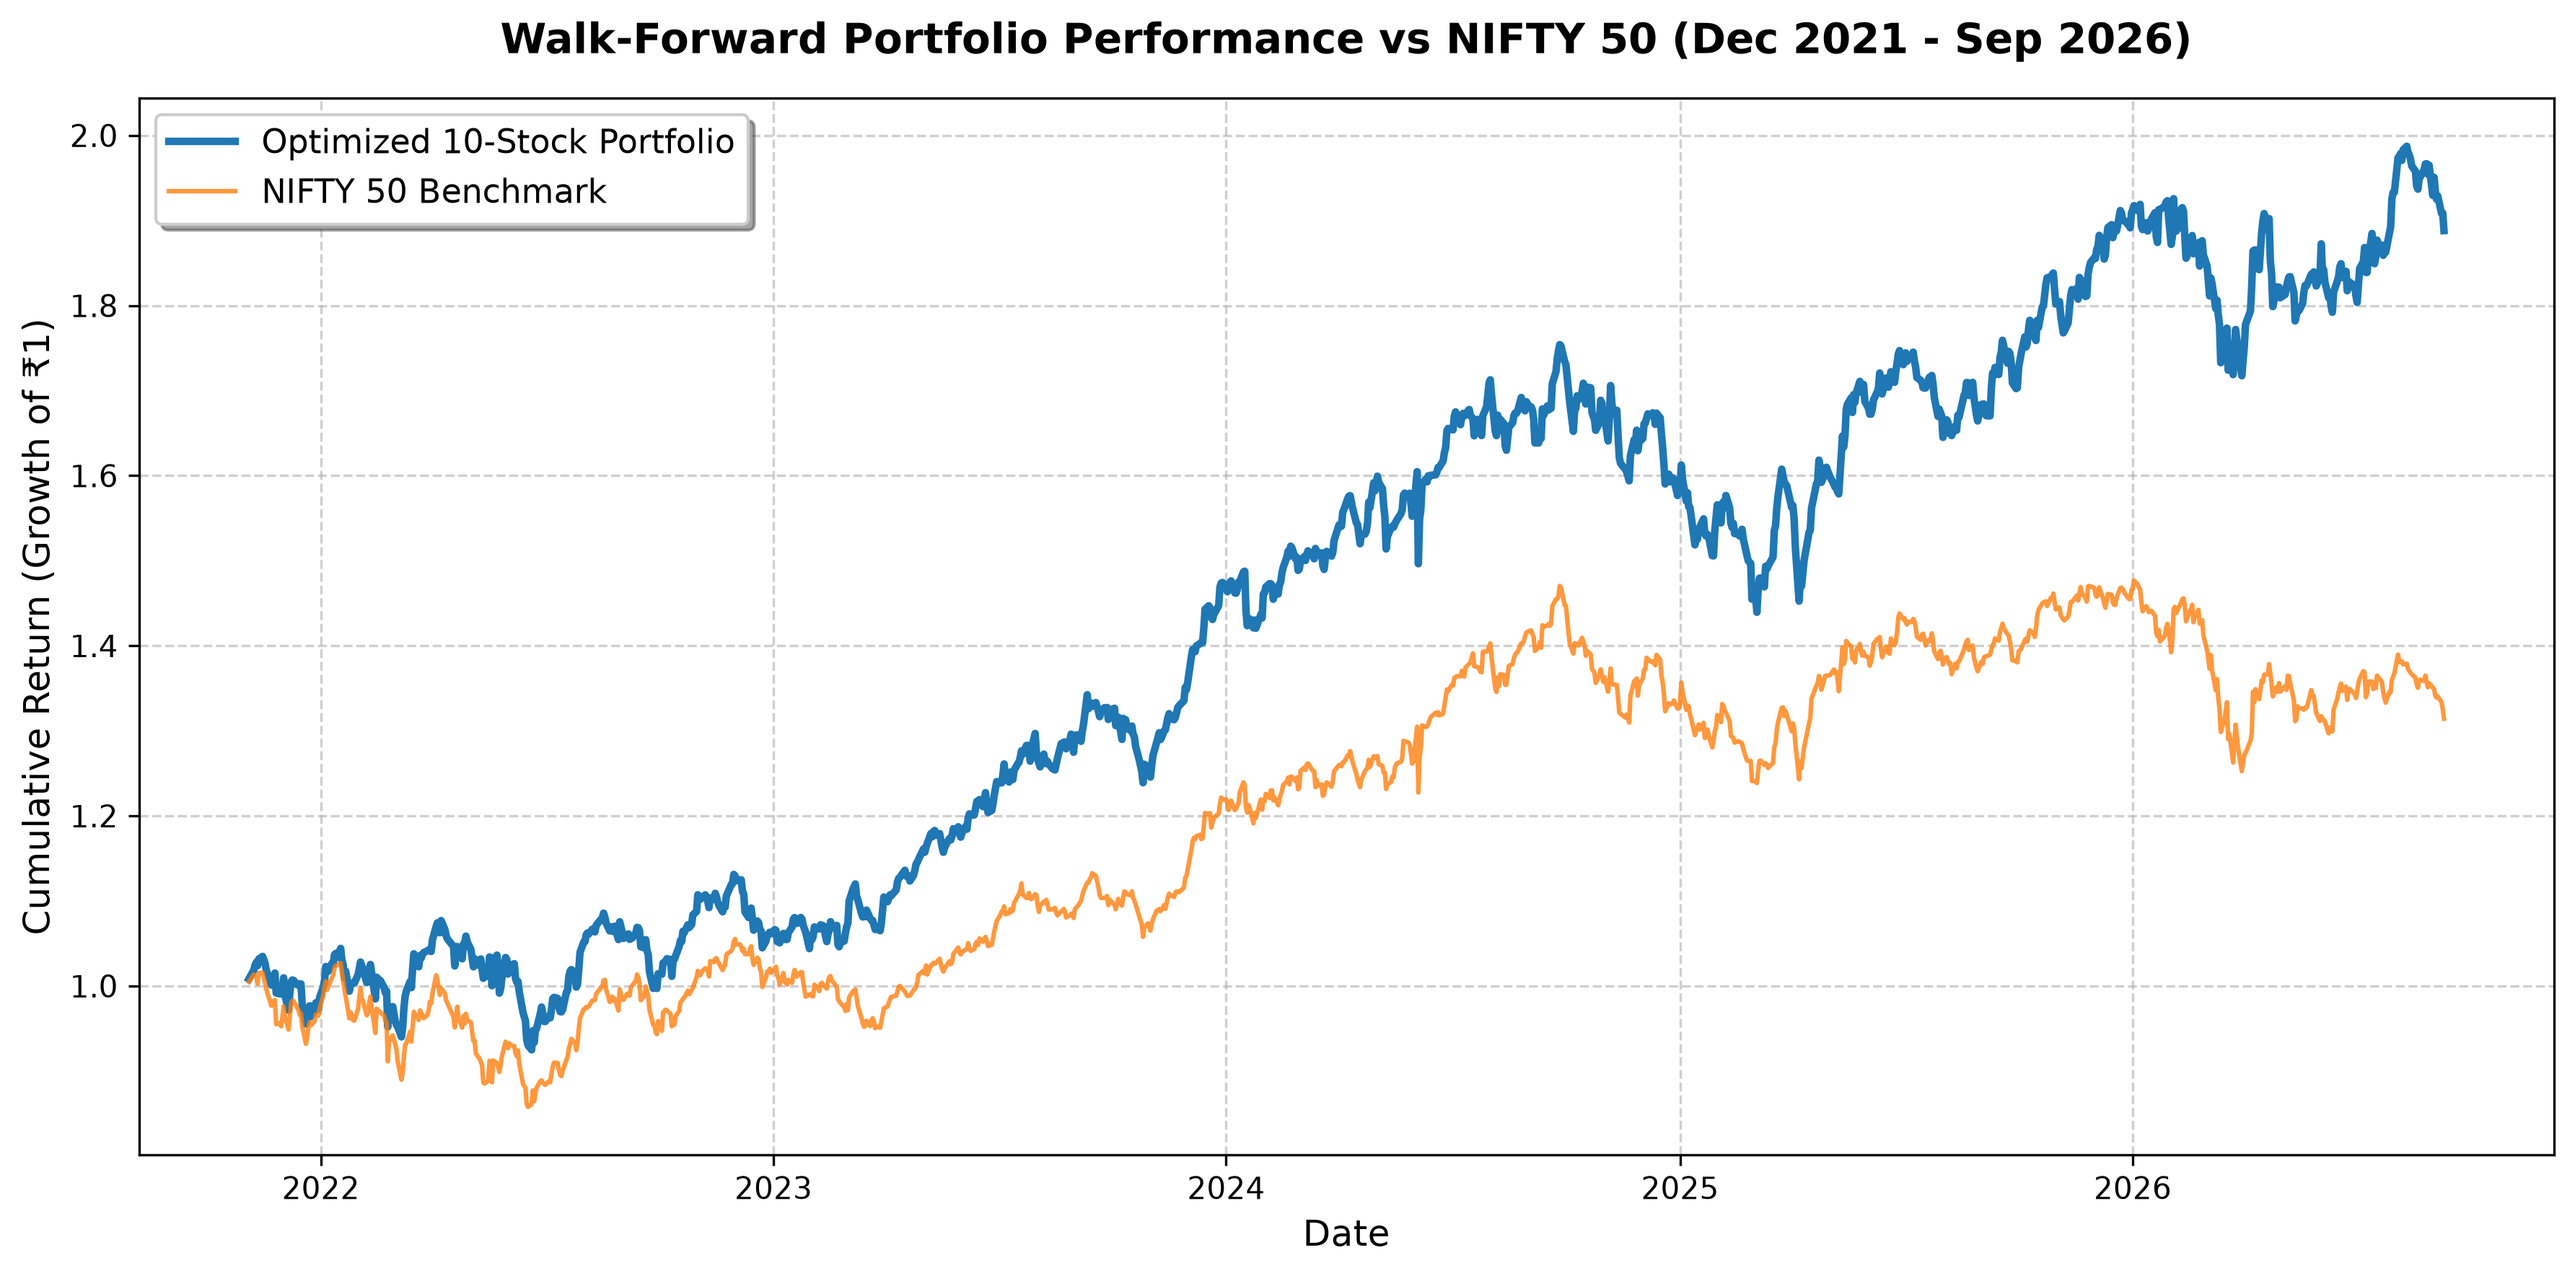
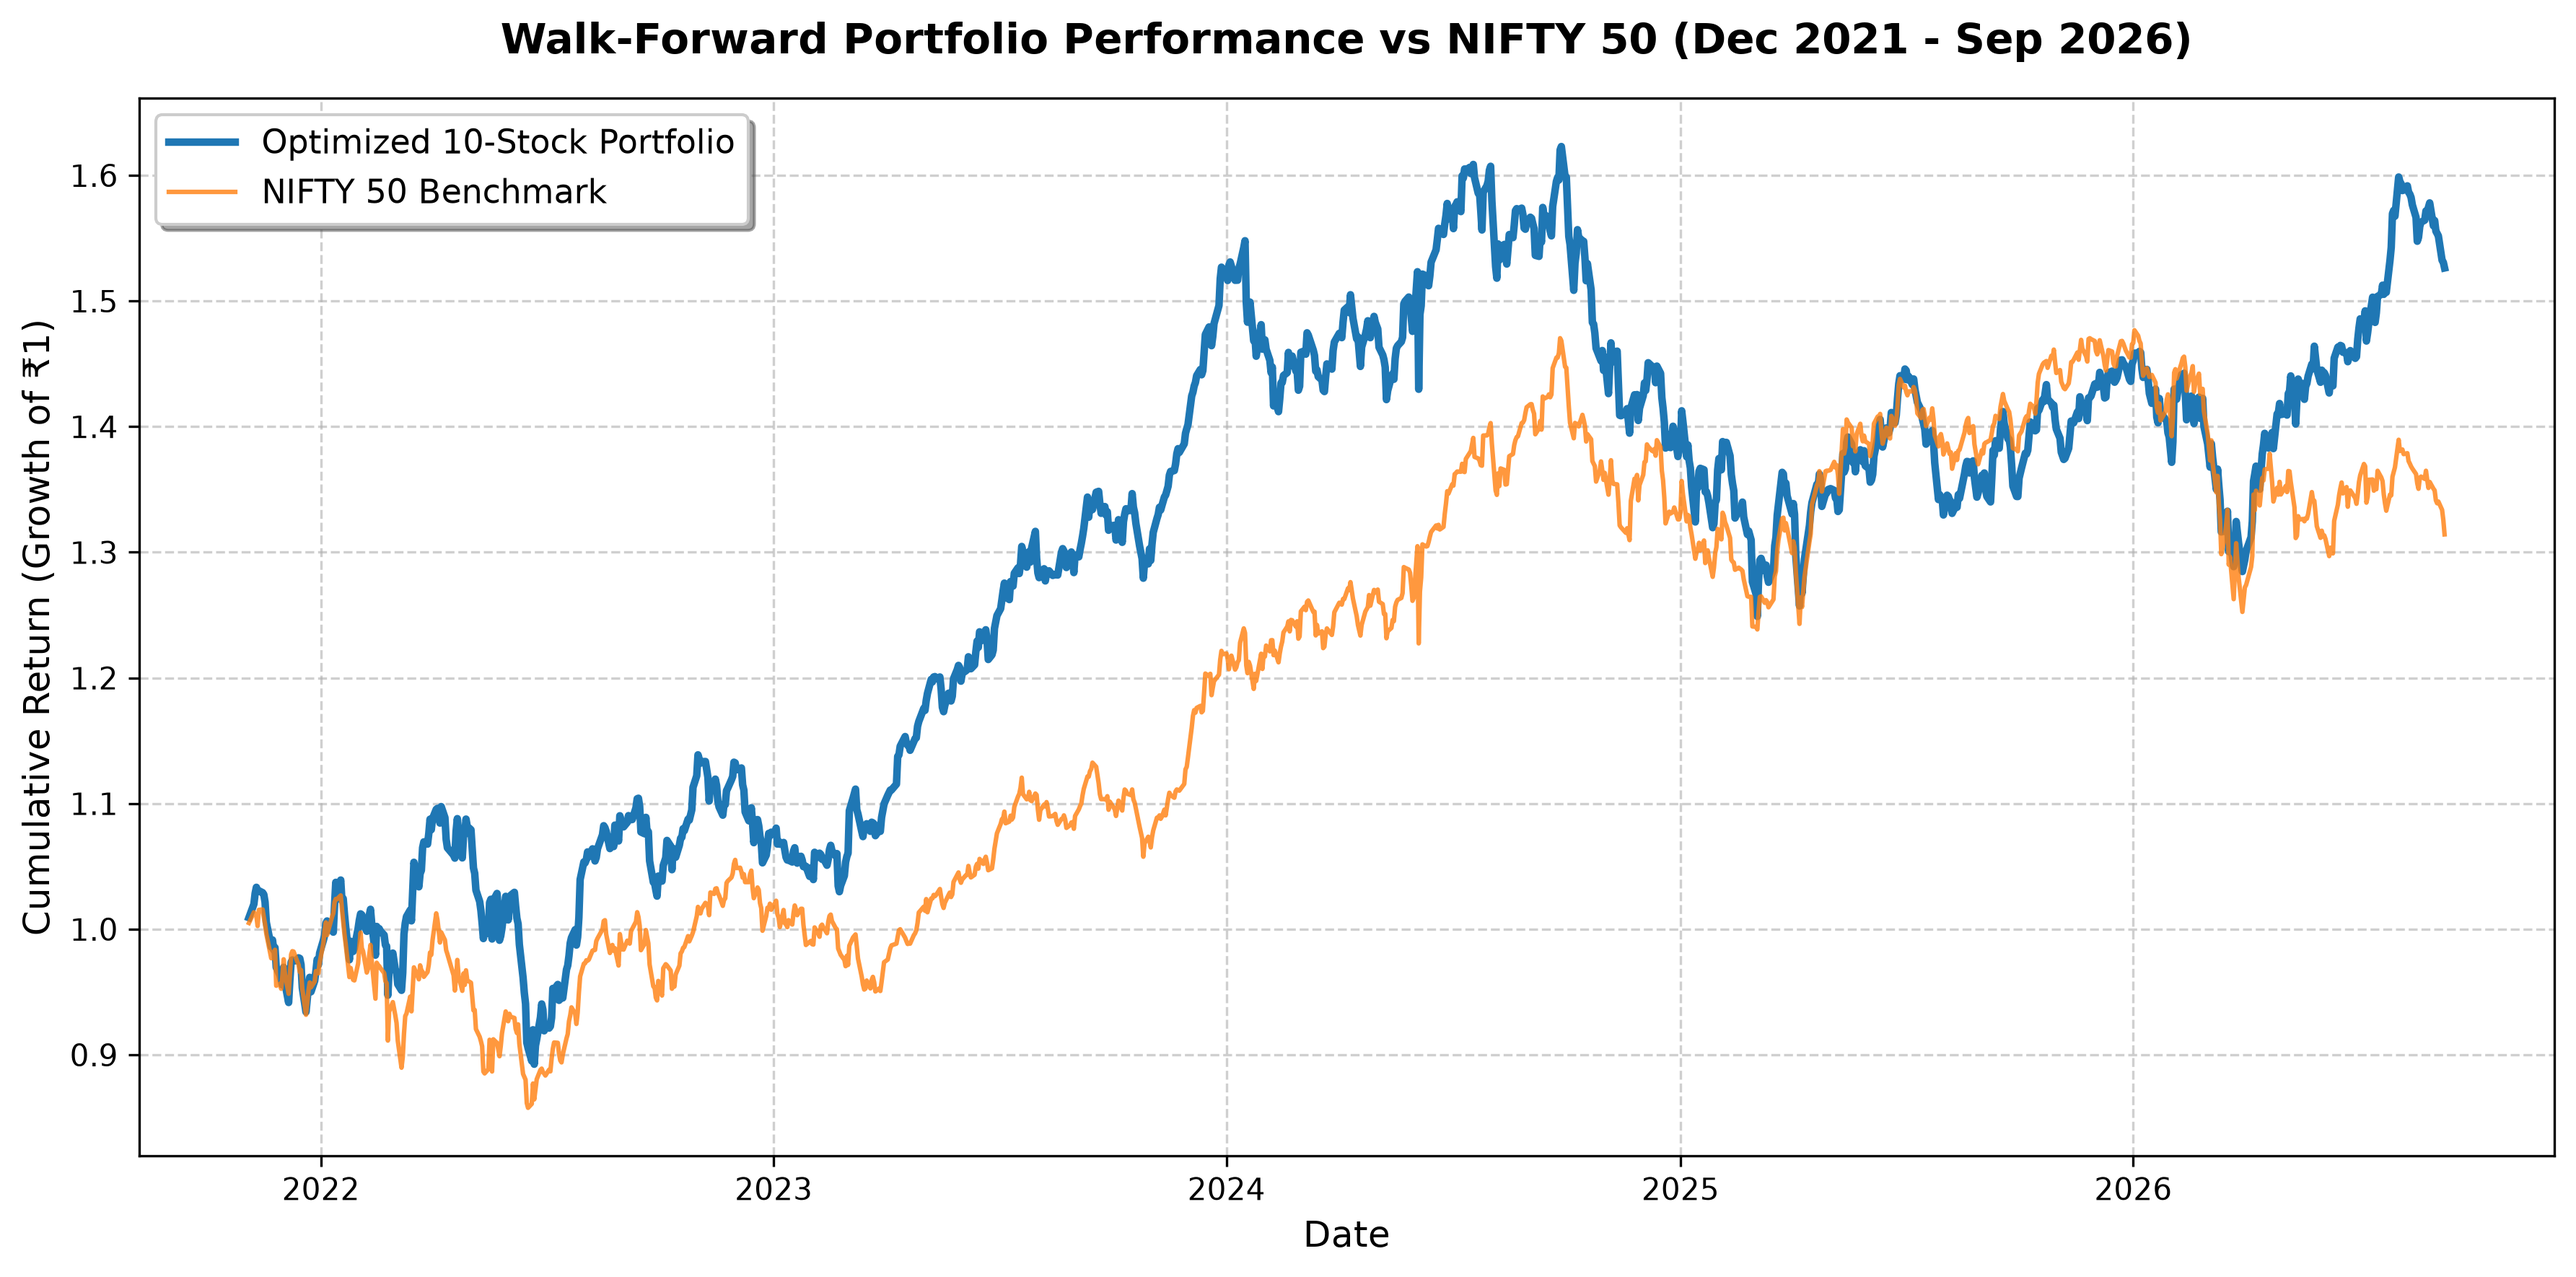
.

diff --git a/README.md b/README.md
@@ -1,0 +1,13 @@
+Run commands - 
+source .venv/bin/activate
+pip install -r requirements.txt
+python -m src.data.preprocess --primary "data/raw/OPT_DATA.zip" --secondary "data/raw/nifty500_stocks.csv"
+python src/data/adjust_prices.py
+python src/data/extract_benchmark.py
+
+python src/features/build_features.py
+python src/models/model2_ranker.py
+python src/models/evaluate_ranker.py
+
+python src/backtesting/backtest.py --predictions=data/processed/predictions_ranker.csv --mode=hard --rebalance-freq=21
+python src/backtesting/plot_results.py
